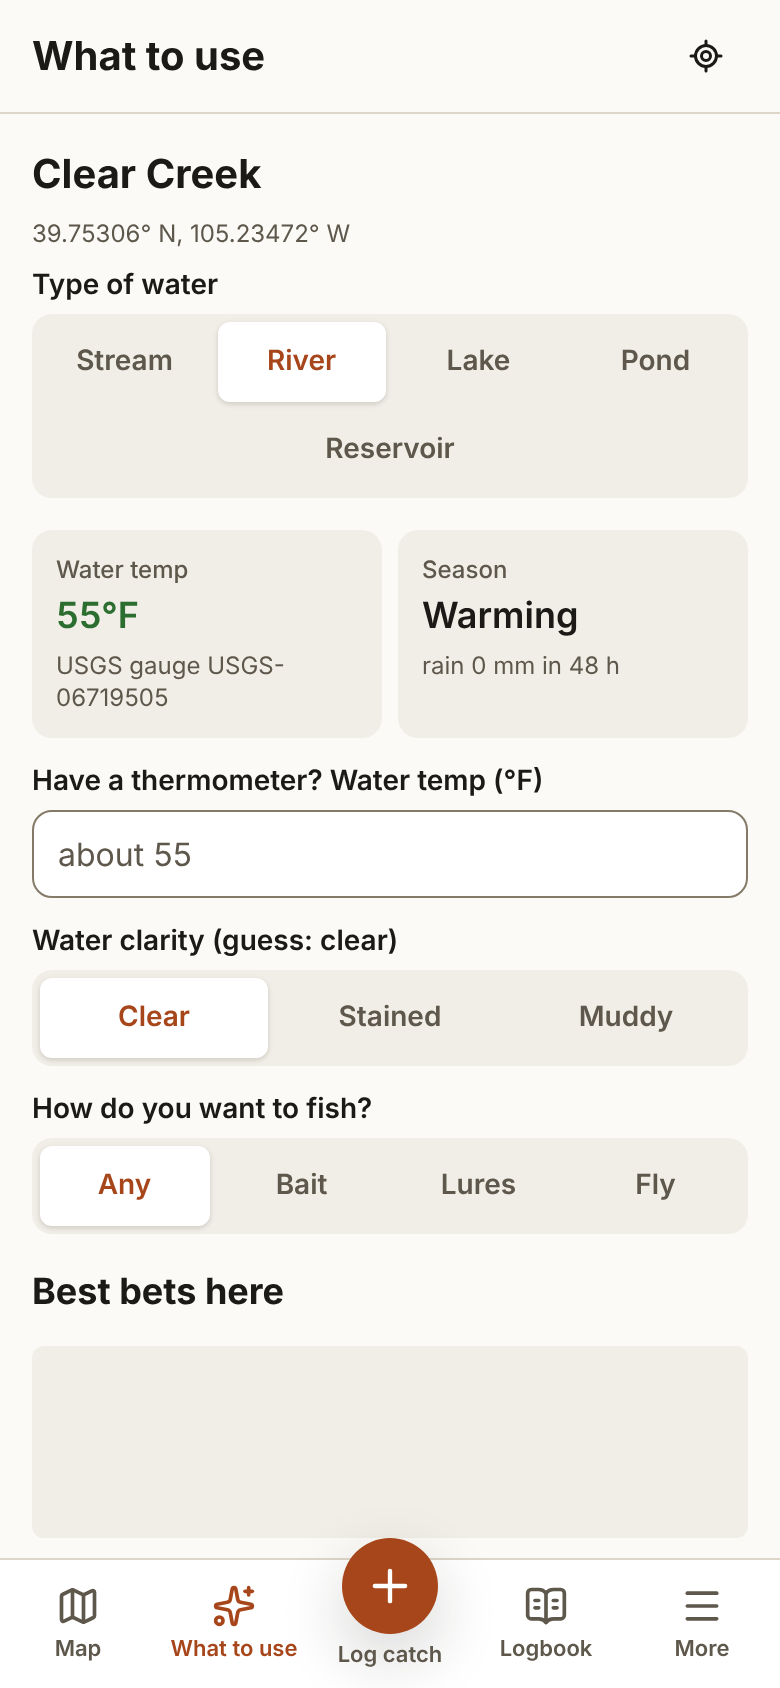
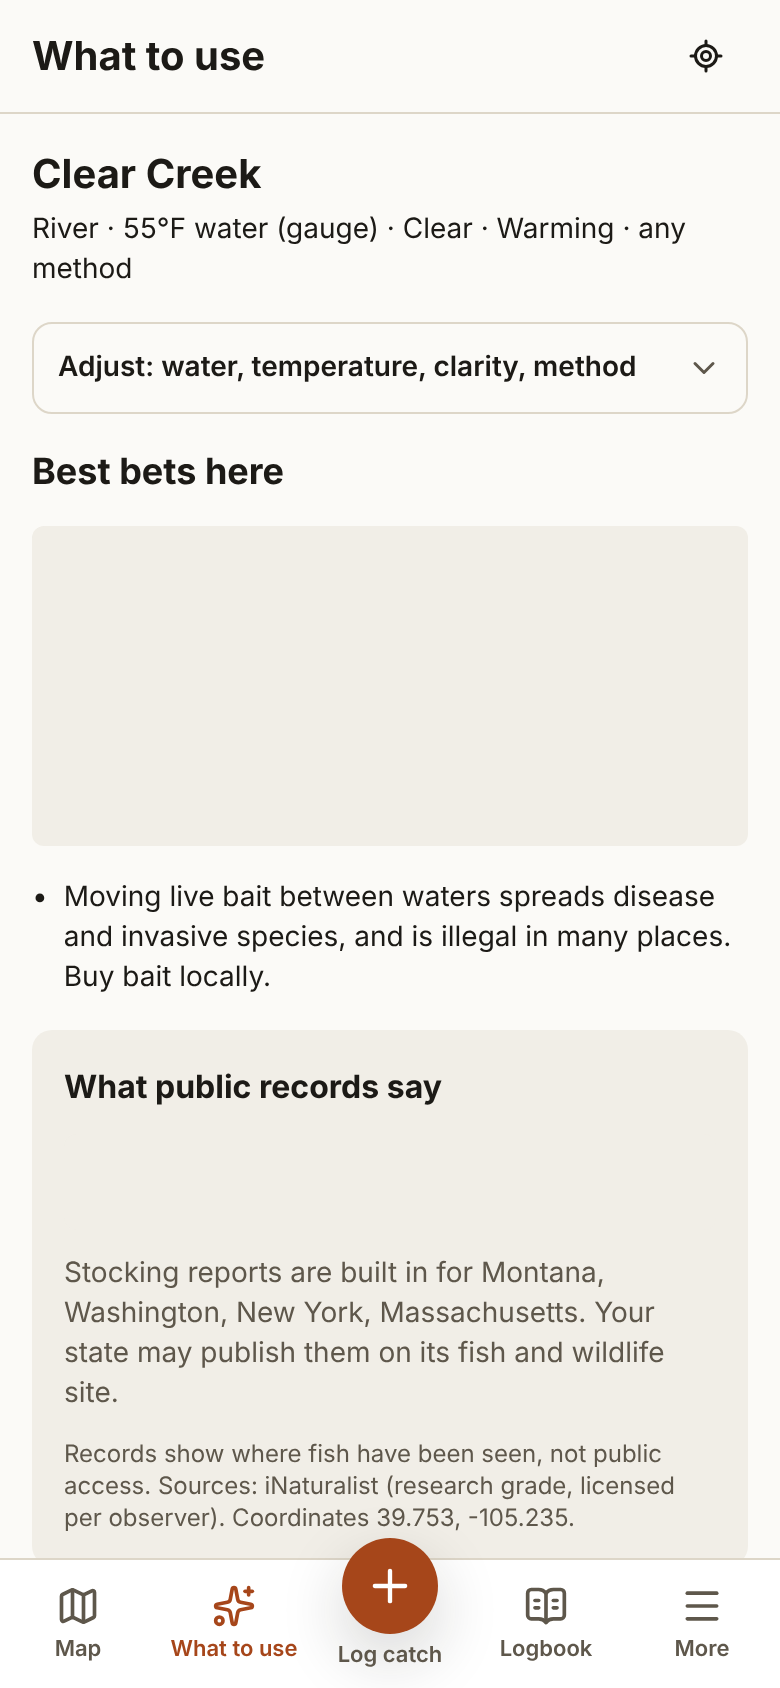
What to use: find the angler automatically, fold controls into Adjust
- Opening the tab with no recent GPS fix requests location straight away
  (like Log a catch); if refused, it says why and offers the map
- Water type, thermometer reading, clarity and method move into a collapsed
  "Adjust" panel; a one-line summary shows what the advice is based on
  (type, water temp and its source, clarity, season, method)
- Recommendations wait for public records instead of showing a guess and
  reshuffling
- Trout: the 68°F warning only appears when the water is that warm (or the
  temperature is unknown); the brown trout feeding tip moves into "How"
- Tests: auto-locate and permission-refused cases (70 e2e runs, 42 unit)

Claude-Session: https://claude.ai/code/session_0199V6ovXFiaUuybv52wmL9P

diff --git a/src/screens/PlanScreen.tsx b/src/screens/PlanScreen.tsx
@@ -1,8 +1,8 @@
-import { useEffect, useId, useMemo, useState } from 'react'
+import { useEffect, useId, useMemo, useRef, useState } from 'react'
 import { Link, useNavigate, useSearchParams } from 'react-router-dom'
 import SunCalc from 'suncalc'
 import { ChevronDown, CloudSun, LocateFixed, MapPin, TriangleAlert } from 'lucide-react'
-import { Button, inputClass, Page, Segmented, StatTile } from '../components/ui'
+import { Button, inputClass, Page, Segmented } from '../components/ui'
 import { RigDiagram } from '../components/RigDiagram'
 import { useToast } from '../components/Toast'
 import { updateSettings, useSettings } from '../lib/settings'
@@ -184,9 +184,14 @@ export function PlanScreen() {
     return i > 0 ? [result.recs[i], ...result.recs.filter((_, j) => j !== i)] : result.recs
   }, [result, target])
 
+  const [locateFailed, setLocateFailed] = useState<string>()
   const locate = () => {
-    if (!navigator.geolocation) return toast('This device has no location service', 'error')
+    if (!navigator.geolocation) {
+      setLocateFailed('This device has no location service.')
+      return
+    }
     setLocating(true)
+    setLocateFailed(undefined)
     navigator.geolocation.getCurrentPosition(
       (pos) => {
         setLocating(false)
@@ -197,25 +202,58 @@ export function PlanScreen() {
       },
       (err) => {
         setLocating(false)
-        toast(err.code === err.PERMISSION_DENIED ? 'Location permission is off for this site' : 'Could not get your location', 'error')
+        const msg = err.code === err.PERMISSION_DENIED ? 'Location is turned off for this site.' : 'Couldn’t get a GPS fix.'
+        setLocateFailed(msg)
+        if (place) toast(msg, 'error')
       },
       { enableHighAccuracy: true, timeout: 15000, maximumAge: 60_000 },
     )
   }
 
+  // Opening the tab with no place yet: find the angler straight away, like logging a catch does.
+  const autoLocated = useRef(false)
+  useEffect(() => {
+    if (autoLocated.current || params.get('lat')) return
+    if (s.lastFix && Date.now() - s.lastFix.at < 2 * 60 * MINUTE) return
+    autoLocated.current = true
+    locate()
+    // eslint-disable-next-line react-hooks/exhaustive-deps
+  }, [])
+
   if (!place) {
     return (
       <Page title="What to use">
-        <p>Stand by the water (or pick it on the map) and get the rig, bait and spot for the fish that live there, from public records and today’s conditions.</p>
-        <Button variant="primary" busy={locating} onClick={locate}>
-          <LocateFixed size={18} /> Use my location
-        </Button>
-        <Button onClick={() => nav('/')}>
-          <MapPin size={18} /> Pick water on the map
-        </Button>
+        {locating || !locateFailed ? (
+          <div className="flex flex-col gap-3" aria-live="polite">
+            <p className="font-semibold">Finding the water you’re at…</p>
+            <div className="skeleton h-8 w-2/3" />
+            <div className="skeleton h-40" />
+          </div>
+        ) : (
+          <>
+            <p>{locateFailed} Pick the water on the map instead, or try again.</p>
+            <Button variant="primary" onClick={() => nav('/')}>
+              <MapPin size={18} /> Pick water on the map
+            </Button>
+            <Button busy={locating} onClick={locate}>
+              <LocateFixed size={18} /> Try my location again
+            </Button>
+          </>
+        )}
       </Page>
     )
   }
+
+  const methodLabel = { any: 'any method', bait: 'bait', lure: 'lures', fly: 'fly' }[method]
+  const summary = [
+    type === 'unknown' ? null : type.charAt(0).toUpperCase() + type.slice(1),
+    temp.c != null ? `${formatTemp(temp.c, s.units)} water${temp.source.startsWith('estimate') ? ' (estimate)' : temp.source === 'your reading' ? ' (your reading)' : ' (gauge)'}` : null,
+    clarityNow.charAt(0).toUpperCase() + clarityNow.slice(1),
+    air ? (air.warming ? 'Warming' : 'Cooling') : null,
+    methodLabel,
+  ]
+    .filter(Boolean)
+    .join(' · ')
 
   return (
     <Page
@@ -226,65 +264,83 @@ export function PlanScreen() {
         </Button>
       }
     >
-      <section aria-label="Water" className="flex flex-col gap-2">
+      <section aria-label="Water" className="flex flex-col gap-1">
         {waterState === 'loading' ? (
           <div className="skeleton h-8 w-2/3" aria-label="Finding the water" />
         ) : (
           <h2 className="text-xl font-bold">{water?.name ?? (type === 'unknown' ? 'Water near you' : `Unnamed ${type}`)}</h2>
         )}
-        <p className="text-xs text-muted">{formatCoords(place)}</p>
-        {type === 'coast' ? null : (
-          <Segmented<WaterKind> label="Type of water" value={type} onChange={setTypeOverride} options={TYPE_OPTIONS} />
-        )}
-        {waterState === 'error' ? <p className="text-xs text-muted">Couldn’t look the water up (offline?). Pick its type above.</p> : null}
+        <p className="text-sm" data-testid="conditions-summary">
+          {summary}
+        </p>
+        {waterState === 'error' ? <p className="text-xs text-muted">Couldn’t look the water up (offline?). Set its type under Adjust.</p> : null}
       </section>
 
-      <section aria-label="Conditions" className="flex flex-col gap-3">
-        <div className="grid grid-cols-2 gap-2">
-          <StatTile label="Water temp" value={formatTemp(temp.c, s.units)} hint={temp.source} tone={temp.source.startsWith('estimate') ? 'neutral' : 'good'} />
-          <StatTile label="Season" value={air ? (air.warming ? 'Warming' : 'Cooling') : '—'} hint={air ? `rain ${air.rain48hMm} mm in 48 h` : undefined} />
-        </div>
-        <div className="flex flex-col gap-1">
-          <label htmlFor={tempId} className="text-sm font-semibold">
-            Have a thermometer? Water temp ({s.units === 'imperial' ? '°F' : '°C'})
-          </label>
-          <input id={tempId} inputMode="decimal" className={inputClass} value={manualTemp} onChange={(e) => setManualTemp(e.target.value)} placeholder={temp.c != null ? `about ${Math.round(s.units === 'imperial' ? cToF(temp.c) : temp.c)}` : ''} />
-        </div>
-        <Segmented<Clarity>
-          label={`Water clarity${clarity ? '' : ` (guess: ${clarityGuess})`}`}
-          value={clarityNow}
-          onChange={setClarity}
-          options={[
-            { value: 'clear', label: 'Clear' },
-            { value: 'stained', label: 'Stained' },
-            { value: 'muddy', label: 'Muddy' },
-          ]}
-        />
-        <Segmented<Method | 'any'>
-          label="How do you want to fish?"
-          value={method}
-          onChange={setMethod}
-          options={[
-            { value: 'any', label: 'Any' },
-            { value: 'bait', label: 'Bait' },
-            { value: 'lure', label: 'Lures' },
-            { value: 'fly', label: 'Fly' },
-          ]}
-        />
-      </section>
+      {type === 'coast' ? null : (
+        <details className="group rounded-md border border-border" open={waterState === 'error' || type === 'unknown'}>
+          <summary className="flex min-h-11 cursor-pointer list-none items-center justify-between gap-2 px-3 text-sm font-semibold">
+            <span>Adjust: water, temperature, clarity, method</span>
+            <ChevronDown size={18} className="shrink-0 text-muted transition-transform group-open:rotate-180" aria-hidden />
+          </summary>
+          <div className="flex flex-col gap-3 border-t border-border p-3">
+            <Segmented<WaterKind> label="Type of water" value={type} onChange={setTypeOverride} options={TYPE_OPTIONS} />
+            <div className="flex flex-col gap-1">
+              <label htmlFor={tempId} className="text-sm font-semibold">
+                Water temp from a thermometer ({s.units === 'imperial' ? '°F' : '°C'})
+              </label>
+              <input
+                id={tempId}
+                inputMode="decimal"
+                className={inputClass}
+                value={manualTemp}
+                onChange={(e) => setManualTemp(e.target.value)}
+                placeholder={temp.c != null ? `about ${Math.round(s.units === 'imperial' ? cToF(temp.c) : temp.c)}` : ''}
+                aria-describedby={`${tempId}-hint`}
+              />
+              <p id={`${tempId}-hint`} className="text-xs text-muted">
+                Now using: {temp.source}
+                {air ? `. Rain in the last 48 h: ${air.rain48hMm} mm.` : '.'}
+              </p>
+            </div>
+            <Segmented<Clarity>
+              label={`Water clarity${clarity ? '' : ` (guess: ${clarityGuess})`}`}
+              value={clarityNow}
+              onChange={setClarity}
+              options={[
+                { value: 'clear', label: 'Clear' },
+                { value: 'stained', label: 'Stained' },
+                { value: 'muddy', label: 'Muddy' },
+              ]}
+            />
+            <Segmented<Method | 'any'>
+              label="How do you want to fish?"
+              value={method}
+              onChange={setMethod}
+              options={[
+                { value: 'any', label: 'Any' },
+                { value: 'bait', label: 'Bait' },
+                { value: 'lure', label: 'Lures' },
+                { value: 'fly', label: 'Fly' },
+              ]}
+            />
+            <p className="text-xs text-muted">{formatCoords(place)}</p>
+          </div>
+        </details>
+      )}
 
       {result?.unsupported ? <p className="rounded-md bg-surface p-3">{result.unsupported}</p> : null}
 
       {result && !result.unsupported ? (
         <section aria-label="Best bets" className="flex flex-col gap-3">
           <h2 className="text-lg font-bold">Best bets here</h2>
-          {sourcesState === 'loading' && !presence.length ? <div className="skeleton h-24" aria-label="Loading fish records" /> : null}
+          {sourcesState === 'loading' ? <div className="skeleton h-40" aria-label="Checking which fish live here" /> : null}
           {result.fromDefaults && sourcesState !== 'loading' ? (
             <p className="rounded-md bg-surface p-3 text-sm">No public fish records near here yet, so these are the fish that usually live in a {type === 'unknown' ? 'water' : type} like this.</p>
           ) : null}
-          {recs.map((r, i) => (
-            <RecCard key={r.profile.id} rec={r} open={i === 0} place={place} forecast={forecast} waterTempC={temp.c} />
-          ))}
+          {/* Wait for the records, so the list doesn't show a guess and then reshuffle. */}
+          {sourcesState === 'loading'
+            ? null
+            : recs.map((r, i) => <RecCard key={r.profile.id} rec={r} open={i === 0} place={place} forecast={forecast} waterTempC={temp.c} />)}
         </section>
       ) : null}
 

diff --git a/e2e/f08-plan.spec.ts b/e2e/f08-plan.spec.ts
@@ -19,7 +19,7 @@ test.describe('F08 what to use at this water', () => {
     await expect(first).toContainText('Why:')
     // Not a target species, but recorded: listed separately.
     await expect(page.getByText(/Also recorded: White Sucker/)).toBeVisible()
-    await expect(page.getByText(/estimate from 2 weeks of air temperature/)).toBeVisible()
+    await expect(page.getByTestId('conditions-summary')).toContainText('(estimate)')
     await axe(page)
     await first.getByRole('link', { name: 'How to tie it' }).click()
     await expect(page.getByRole('heading', { name: 'How to set it up' })).toBeVisible()
@@ -29,8 +29,9 @@ test.describe('F08 what to use at this water', () => {
   test('F08-H2 your thermometer reading and method change the advice', async ({ page }) => {
     await mockNetwork(page)
     await page.goto(`/plan?lat=${GOLDEN.lat}&lon=${GOLDEN.lon}&type=river&name=Clear%20Creek`)
-    await page.getByLabel(/Have a thermometer/).fill('74')
-    await expect(page.getByText('your reading')).toBeVisible()
+    await page.locator('summary', { hasText: 'Adjust' }).click()
+    await page.getByLabel(/from a thermometer/).fill('74')
+    await expect(page.getByTestId('conditions-summary')).toContainText('74°F water (your reading)')
     // 74°F is too warm for trout: the warning shows and largemouth bass move up.
     await expect(page.getByRole('region', { name: 'Best bets' }).locator('details').first()).toContainText('Largemouth bass')
     await expect(page.getByText(/68°F or warmer/).first()).toBeAttached()
@@ -44,7 +45,7 @@ test.describe('F08 what to use at this water', () => {
     const counts = await mockNetwork(page)
     await page.goto(`/plan?lat=${PLACES.lake.lat}&lon=${PLACES.lake.lon}`)
     await expect(page.getByRole('heading', { level: 2, name: 'Test Lake' })).toBeVisible()
-    await expect(page.getByRole('radio', { name: 'Lake' })).toBeChecked()
+    await expect(page.getByTestId('conditions-summary')).toContainText('Lake')
     expect(counts.overpass).toBe(1)
     await expect(page.getByRole('region', { name: 'Best bets' }).locator('details').first()).toContainText(/Largemouth bass|Brown trout|Rainbow trout/)
   })
@@ -94,6 +95,19 @@ test.describe('F08 what to use at this water', () => {
     check()
   })
 
+  test('F08-H8 opening the tab finds you and answers, with nothing to fill in', async ({ page }) => {
+    const check = guard(page)
+    await mockNetwork(page)
+    await page.goto('/')
+    await page.getByRole('navigation', { name: 'Main' }).getByRole('link', { name: 'What to use' }).click()
+    await expect(page.getByRole('heading', { level: 2, name: 'Clear Creek' })).toBeVisible()
+    await expect(page.getByTestId('conditions-summary')).toContainText(/River · \d+°F water \(estimate\) · Clear/)
+    await expect(page.getByRole('region', { name: 'Best bets' }).locator('details').first()).toContainText('Brown trout')
+    // The controls exist but stay out of the way.
+    await expect(page.getByLabel(/from a thermometer/)).toBeHidden()
+    check()
+  })
+
   test('F08-H7 the rig guide', async ({ page }) => {
     await mockNetwork(page)
     await page.goto('/rigs')
@@ -102,5 +116,15 @@ test.describe('F08 what to use at this water', () => {
     await page.getByRole('link', { name: /Dry-dropper/ }).click()
     await expect(page.getByRole('img', { name: /Diagram of a Dry-dropper/ })).toBeVisible()
     await axe(page)
+  })
+})
+
+test.describe('F08 without location permission', () => {
+  test.use({ permissions: [] })
+  test('F08-E3 location refused: says so and offers the map', async ({ page }) => {
+    await mockNetwork(page)
+    await page.goto('/plan')
+    await expect(page.getByText(/Location is turned off for this site/)).toBeVisible({ timeout: 20_000 })
+    await expect(page.getByRole('button', { name: 'Pick water on the map' })).toBeVisible()
   })
 })

diff --git a/src/lib/species.ts b/src/lib/species.ts
@@ -65,10 +65,7 @@ const TROUT_TACTICS: Profile['tactics'] = {
   },
 }
 
-const TROUT_NOTES = [
-  'Above 68°F (20°C) caught trout often die after release. Fish early, land them fast, or pick colder water.',
-  'Many trout waters are flies or artificial lures only. Check the rules for this water.',
-]
+const TROUT_NOTES = ['Many trout waters are flies or artificial lures only. Check the rules for this water.']
 
 export const PROFILES: Profile[] = [
   {
@@ -442,10 +439,11 @@ export const PROFILES: Profile[] = [
     idTips: 'Golden-brown with black and red spots, often with pale halos; few spots on the tail.',
     tactics: {
       ...TROUT_TACTICS,
+      default: { ...TROUT_TACTICS.default, how: `${TROUT_TACTICS.default.how} Browns feed most at dawn, dusk and under clouds; big ones eat streamers.` },
       spawn: { how: 'Browns are spawning: leave fish on the light gravel nests (redds) alone and don’t wade through them.' },
     },
     tackle: { line: '4–8 lb line, or 4X–5X tippet', hooks: '#14–#6 hooks' },
-    notes: [...TROUT_NOTES, 'Browns feed most at dawn, dusk and under clouds; big ones eat streamers.'],
+    notes: TROUT_NOTES,
   },
   {
     id: 'brook',

diff --git a/e2e/screens.spec.ts b/e2e/screens.spec.ts
@@ -45,7 +45,9 @@ test('capture screens', async ({ page }) => {
   await page.waitForTimeout(500)
   await page.screenshot({ path: shot('S14-plan'), fullPage: true })
   await page.goto(`/plan?lat=${PLACES.lake.lat}&lon=${PLACES.lake.lon}`)
-  await page.getByLabel(/Have a thermometer/).fill('72')
+  await page.locator('summary', { hasText: 'Adjust' }).click()
+  await page.getByLabel(/from a thermometer/).fill('72')
+  await page.locator('summary', { hasText: 'Adjust' }).click()
   await page.waitForTimeout(500)
   await page.screenshot({ path: shot('S14-plan-lake'), fullPage: true })
   await page.goto('/rigs/carolina')

diff --git a/src/lib/advisor.ts b/src/lib/advisor.ts
@@ -247,6 +247,7 @@ function recommend(
   const usable = (xs: string[]) => xs.filter((x) => !/^Not usual/.test(x))
 
   if (p.group === 'trout' && tempF != null && tempF >= 68) warnings.unshift('Water is 68°F or warmer: hard on trout. Fish at first light or choose colder water.')
+  if (p.group === 'trout' && tempF == null) warnings.push('If the water is above 68°F (20°C), trout often die after release: check with a thermometer.')
   if (phase === 'spawn' && p.tempF.spawnSeason) warnings.unshift('Spawning season: check closed seasons, and release spawning fish quickly where you caught them.')
 
   return {

diff --git a/replica/test-plan.md b/replica/test-plan.md
@@ -41,12 +41,14 @@ Every spec fails on any console error, page error or 5xx, and runs an axe WCAG 2
 | F08-H4 | | France | Hub'Eau surveys count as evidence | e2e | pass |
 | F08-H5 | | Montana | stocking events listed and counted | e2e | pass |
 | F08-H6 | | sighting → plan | map dot → sheet with observer + licence → plan led by that fish | e2e | pass |
+| F08-H8 | | open the tab | finds you, names the water, answers with nothing filled in; controls folded away | e2e | pass |
+| F08-E3 | | edge: location refused | says so, offers the map | e2e | pass |
 | F08-H7 | rig guide | | filter by method, diagram, steps | e2e | pass |
 | F08-U | engine | unit | phases through the year, southern hemisphere, warm-spell-in-fall, synonyms, injection-safe LIKE terms | unit | pass |
 | PWA-1 | offline shell | happy | after one visit, logbook and logging work with network cut; manifest valid | e2e | pass |
 | A11Y | all screens | axe | 0 violations | e2e | pass |
 
-Totals: 42 unit tests, 66 e2e runs (33 specs × 2 viewports), all passing.
+Totals: 42 unit tests, 70 e2e runs (35 specs × 2 viewports), all passing.
 
 ## Manual checks still owed
 
